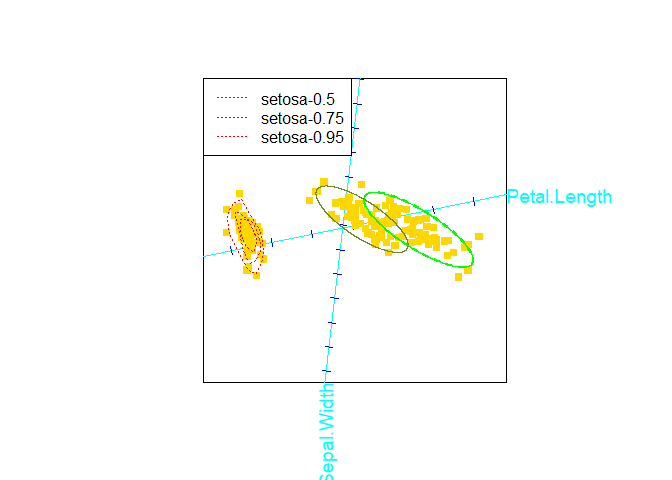
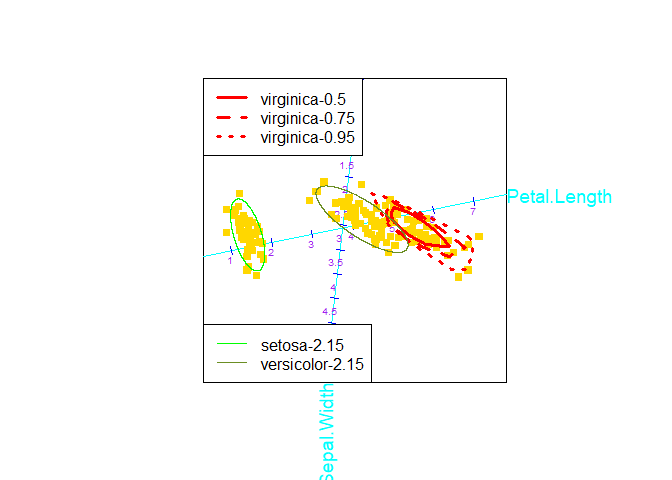
print method added

diff --git a/README.md b/README.md
@@ -31,7 +31,7 @@ devtools::install_github("MuViSU/biplotEZ")
 
 ## Example
 
-This is a basic example which shows you how to construct a PCA biplot:
+This is a basic example which shows you how to solve a common problem:
 
 ``` r
 library(biplotEZ)
@@ -40,10 +40,17 @@ library(biplotEZ)
 #> The following object is masked from 'package:stats':
 #> 
 #>     biplot
+## basic example code
+```
+
+This is a basic example which shows you how to construct a PCA biplot:
+
+``` r
+library(biplotEZ)
 biplot (iris[,1:4], Title="Test PCA biplot") |> PCA() |> plot()
 ```
 
-<img src="man/figures/README-PCAexample-1.png" width="100%" />
+<img src="man/figures/README-PCA_example-1.png" width="100%" />
 
 While the PCA biplot provides a visual representation of the overall
 data set, optimally representing the variance in 1, 2 or 3 dimensions,
@@ -54,30 +61,29 @@ This is a basic example which shows you how to constrct a CVA biplot:
 biplot (iris[,1:4], group.aes=iris[,5], Title="Test CVA biplot") |> CVA() |> plot()
 ```
 
-<img src="man/figures/README-CVAexample-1.png" width="100%" />
+<img src="man/figures/README-CVA_example-1.png" width="100%" />
 
-An over-the-top example of chaning all the formatting and adding all the
-bells and whistles:
+An over-the-top example of changing all the formatting and adding all
+the bells and whistles:
 
 ``` r
 biplot (iris[,1:4], group.aes=iris[,5]) |> PCA() |> 
   samples(col="gold", pch=15) |>
-  axes(which=2:3, col="cyan", label.cex=1.2, tick.col="blue", tick.label=FALSE) |>
-  alpha.bags (alpha=c(0.5,0.75,0.95), which=1, col=rainbow(3), lty=3) |>
-  concentration.ellipse(alpha=c(0.9,0.9), which=2:3, col=c("green","olivedrab"), lwd=3) |>
-  legend.type(bags = TRUE) |>
+  axes(which=2:3, col="cyan", label.cex=1.2, tick.col="blue", tick.label.col="purple") |>
+  alpha.bags (alpha=c(0.5,0.75,0.95), which=3, col="red", lty=1:3, lwd=3) |>
+  concentration.ellipse(alpha=0.9, which=1:2, col=c("green","olivedrab")) |>
+  legend.type(bags = TRUE, ellipses=TRUE) |>
   plot()
-#> Computing 0.5 -bag for setosa 
-#> Computing 0.75 -bag for setosa 
-#> Computing 0.95 -bag for setosa 
-#> [1] 1 1 1 2 2 2
-#> [1] 1 1 1 2 2 2
-#> Computing 2.14596602628935 -ellipse for versicolor 
-#> Computing 2.14596602628935 -ellipse for virginica 
-#> Computing 2.14596602628935 -ellipse for versicolor 
-#> Computing 2.14596602628935 -ellipse for virginica
+#> Computing 0.5 -bag for virginica 
+#> Computing 0.75 -bag for virginica 
+#> Computing 0.95 -bag for virginica 
+#> Computing 2.15 -ellipse for setosa 
+#> Computing 2.15 -ellipse for versicolor
 ```
 
-<img src="man/figures/README-aes_example-1.png" width="100%" /> \## Bug
-Reports and Support If you encounter any issues or have questions,
-please open an issue on the GitHub repository.
+<img src="man/figures/README-aes_example-1.png" width="100%" />
+
+## Report Bugs and Support
+
+If you encounter any issues or have questions, please open an issue on
+the GitHub repository.
